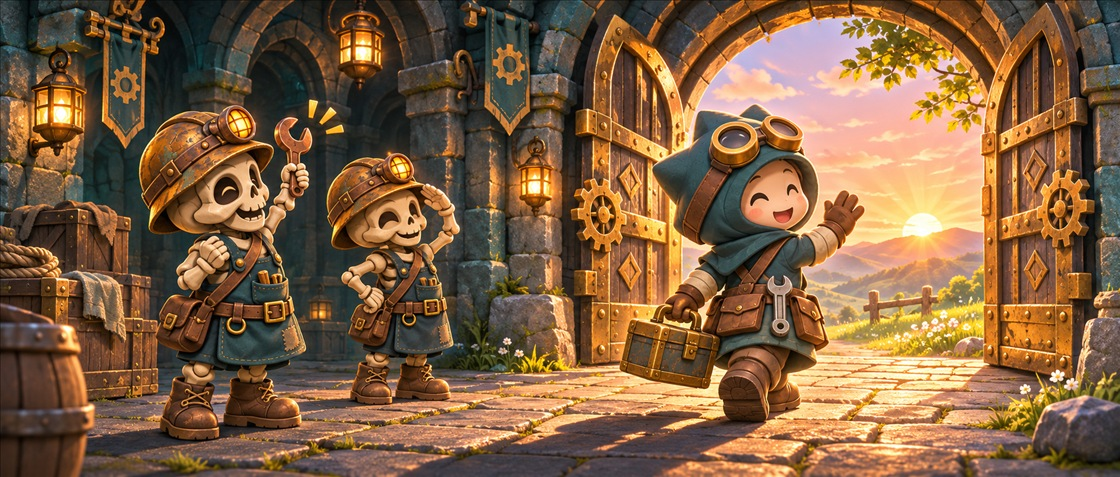
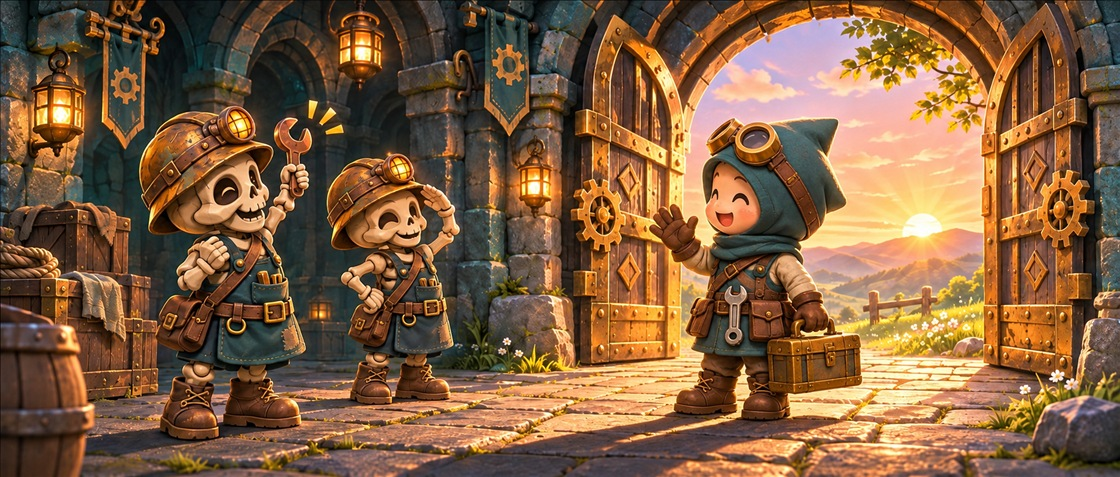
art: 엔딩 배웅 컷의 수리공 자세 수정

diff --git a/game/comic_effects.py b/game/comic_effects.py
@@ -43,7 +43,7 @@ PANEL_BEATS = {
                              before="ending_hero_glove_down"),
     "ending_report": PanelBeat(1.66, (.55, .31), "stamp", "impactWood_heavy_000", (255, 185, 112),
                                7, before="ending_report_raised"),
-    "ending_dawn": PanelBeat(1.36, (.73, .52), "sparkle", "step_right", (255, 224, 161),
+    "ending_dawn": PanelBeat(1.36, (.62, .53), "sparkle", "cloth2", (255, 224, 161),
                              before="ending_dawn_wave_down"),
 }
 
